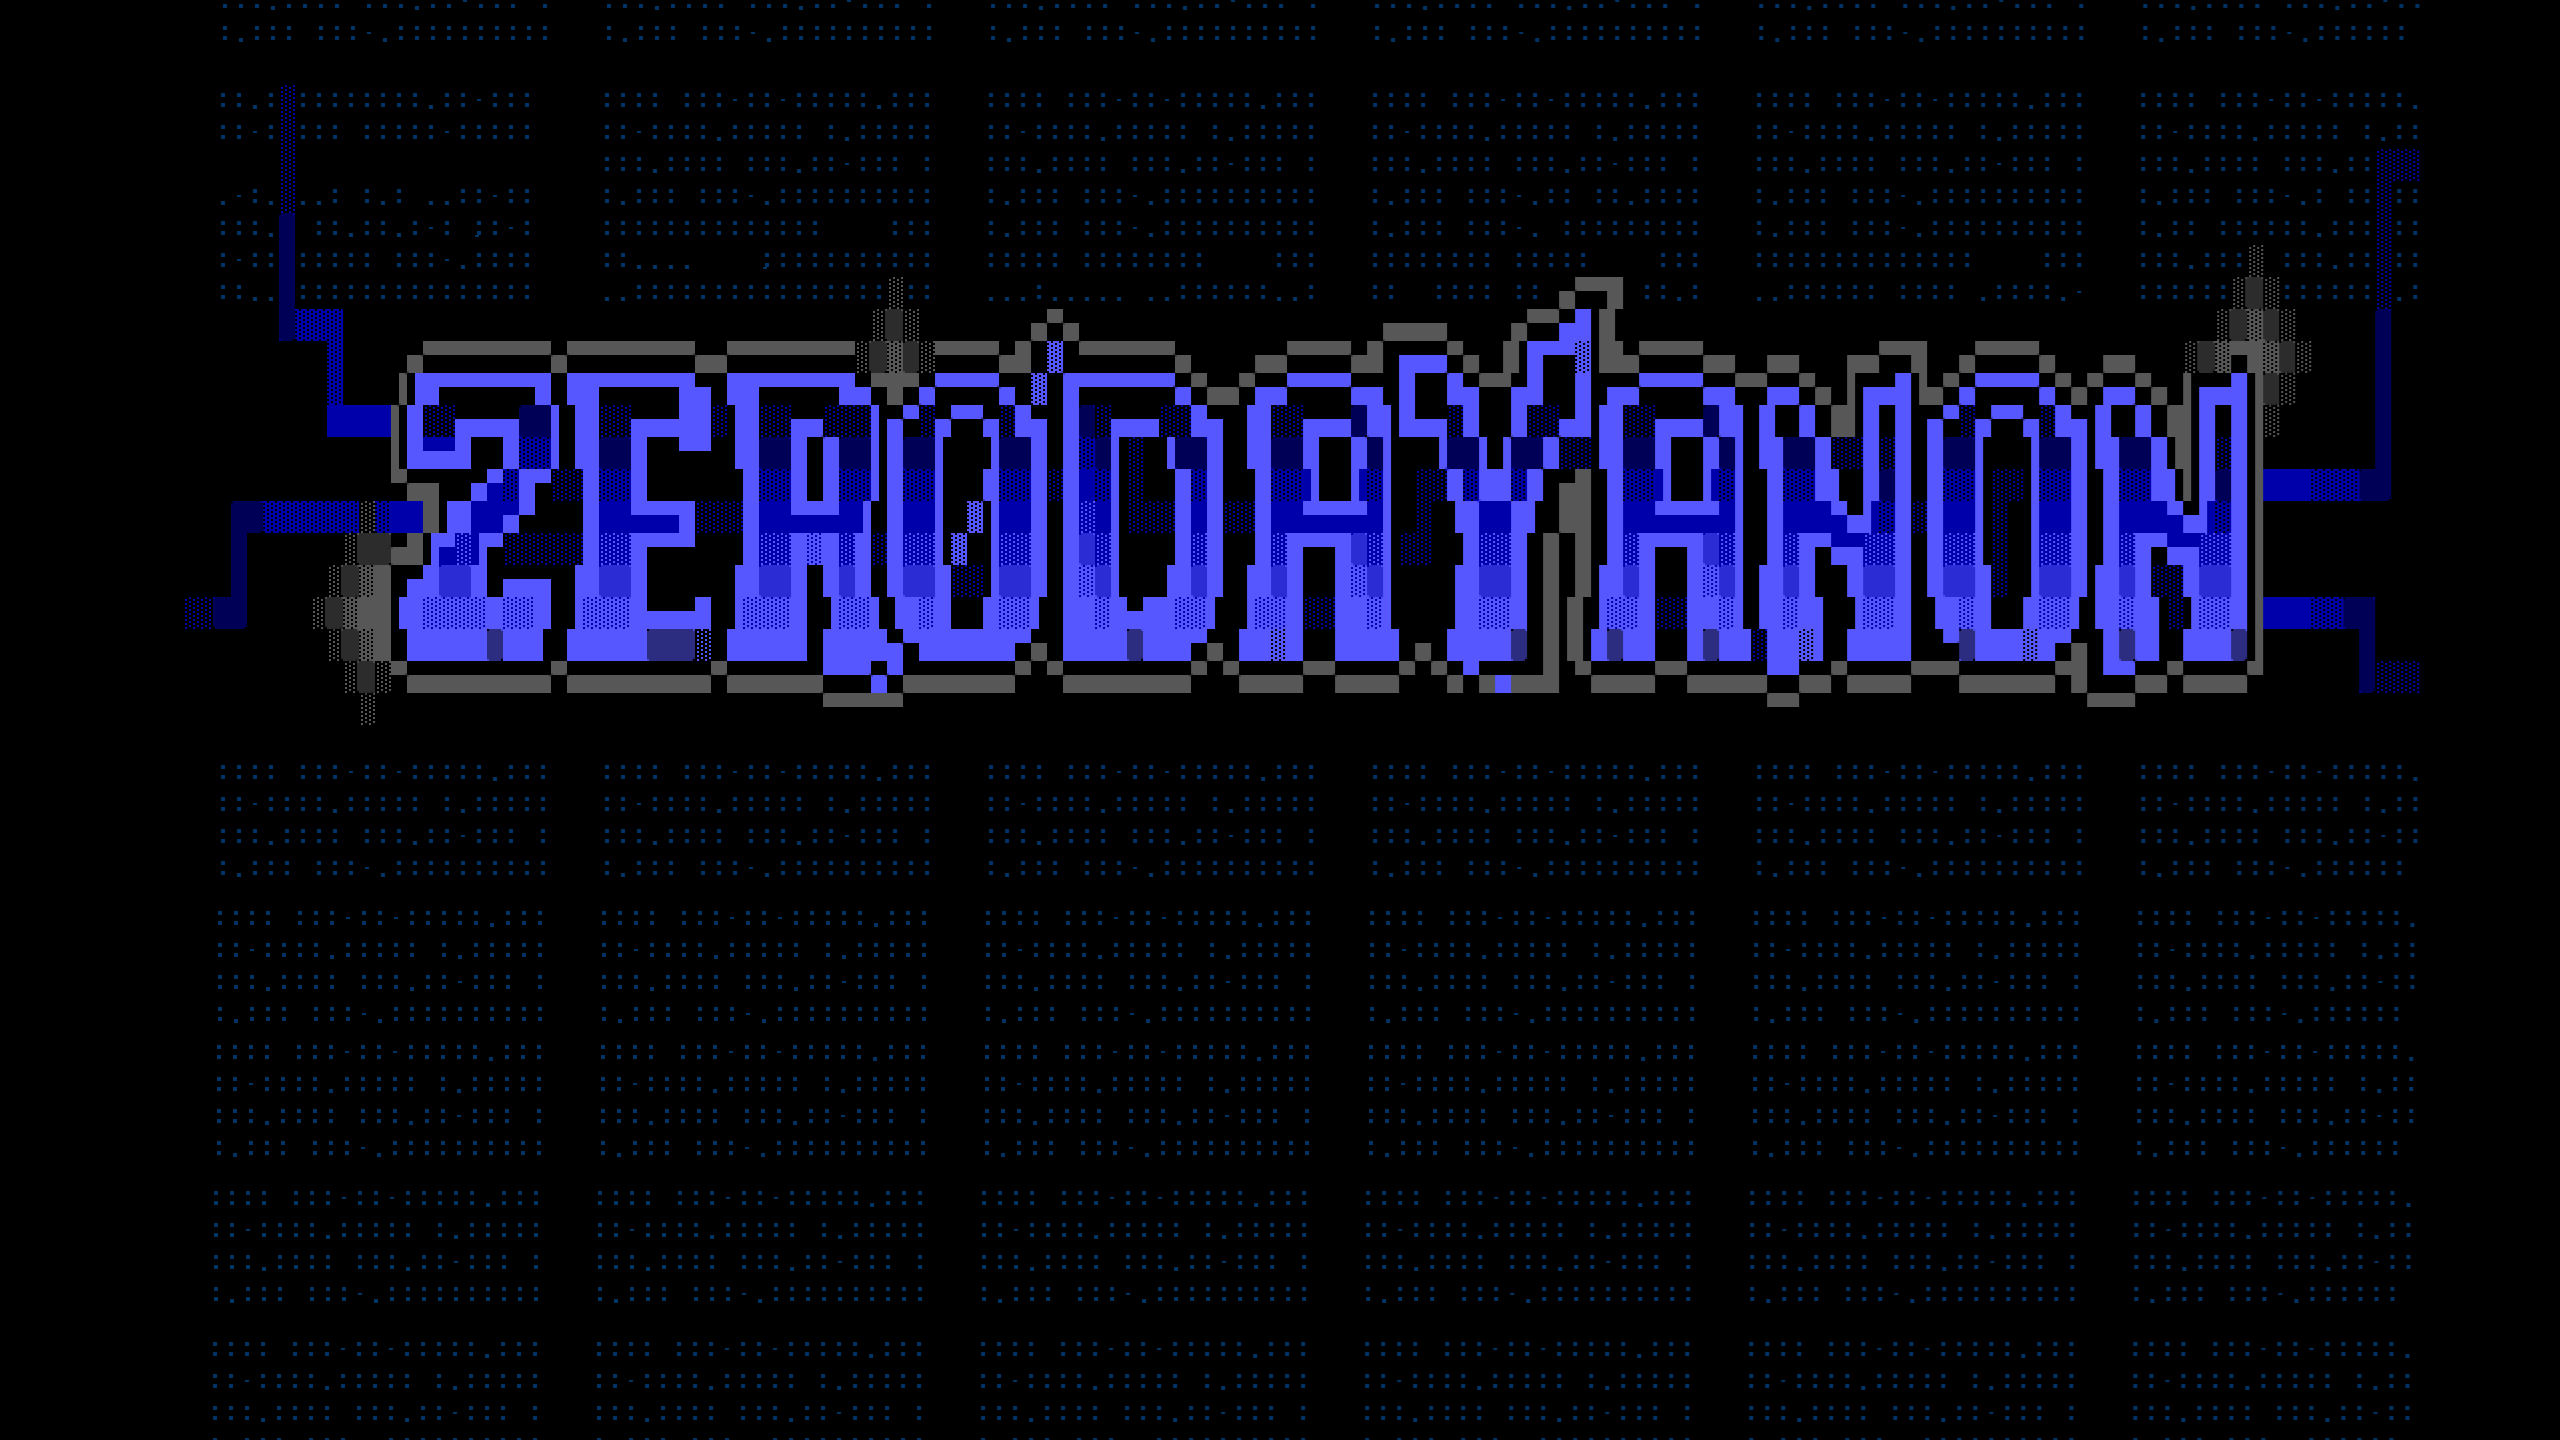
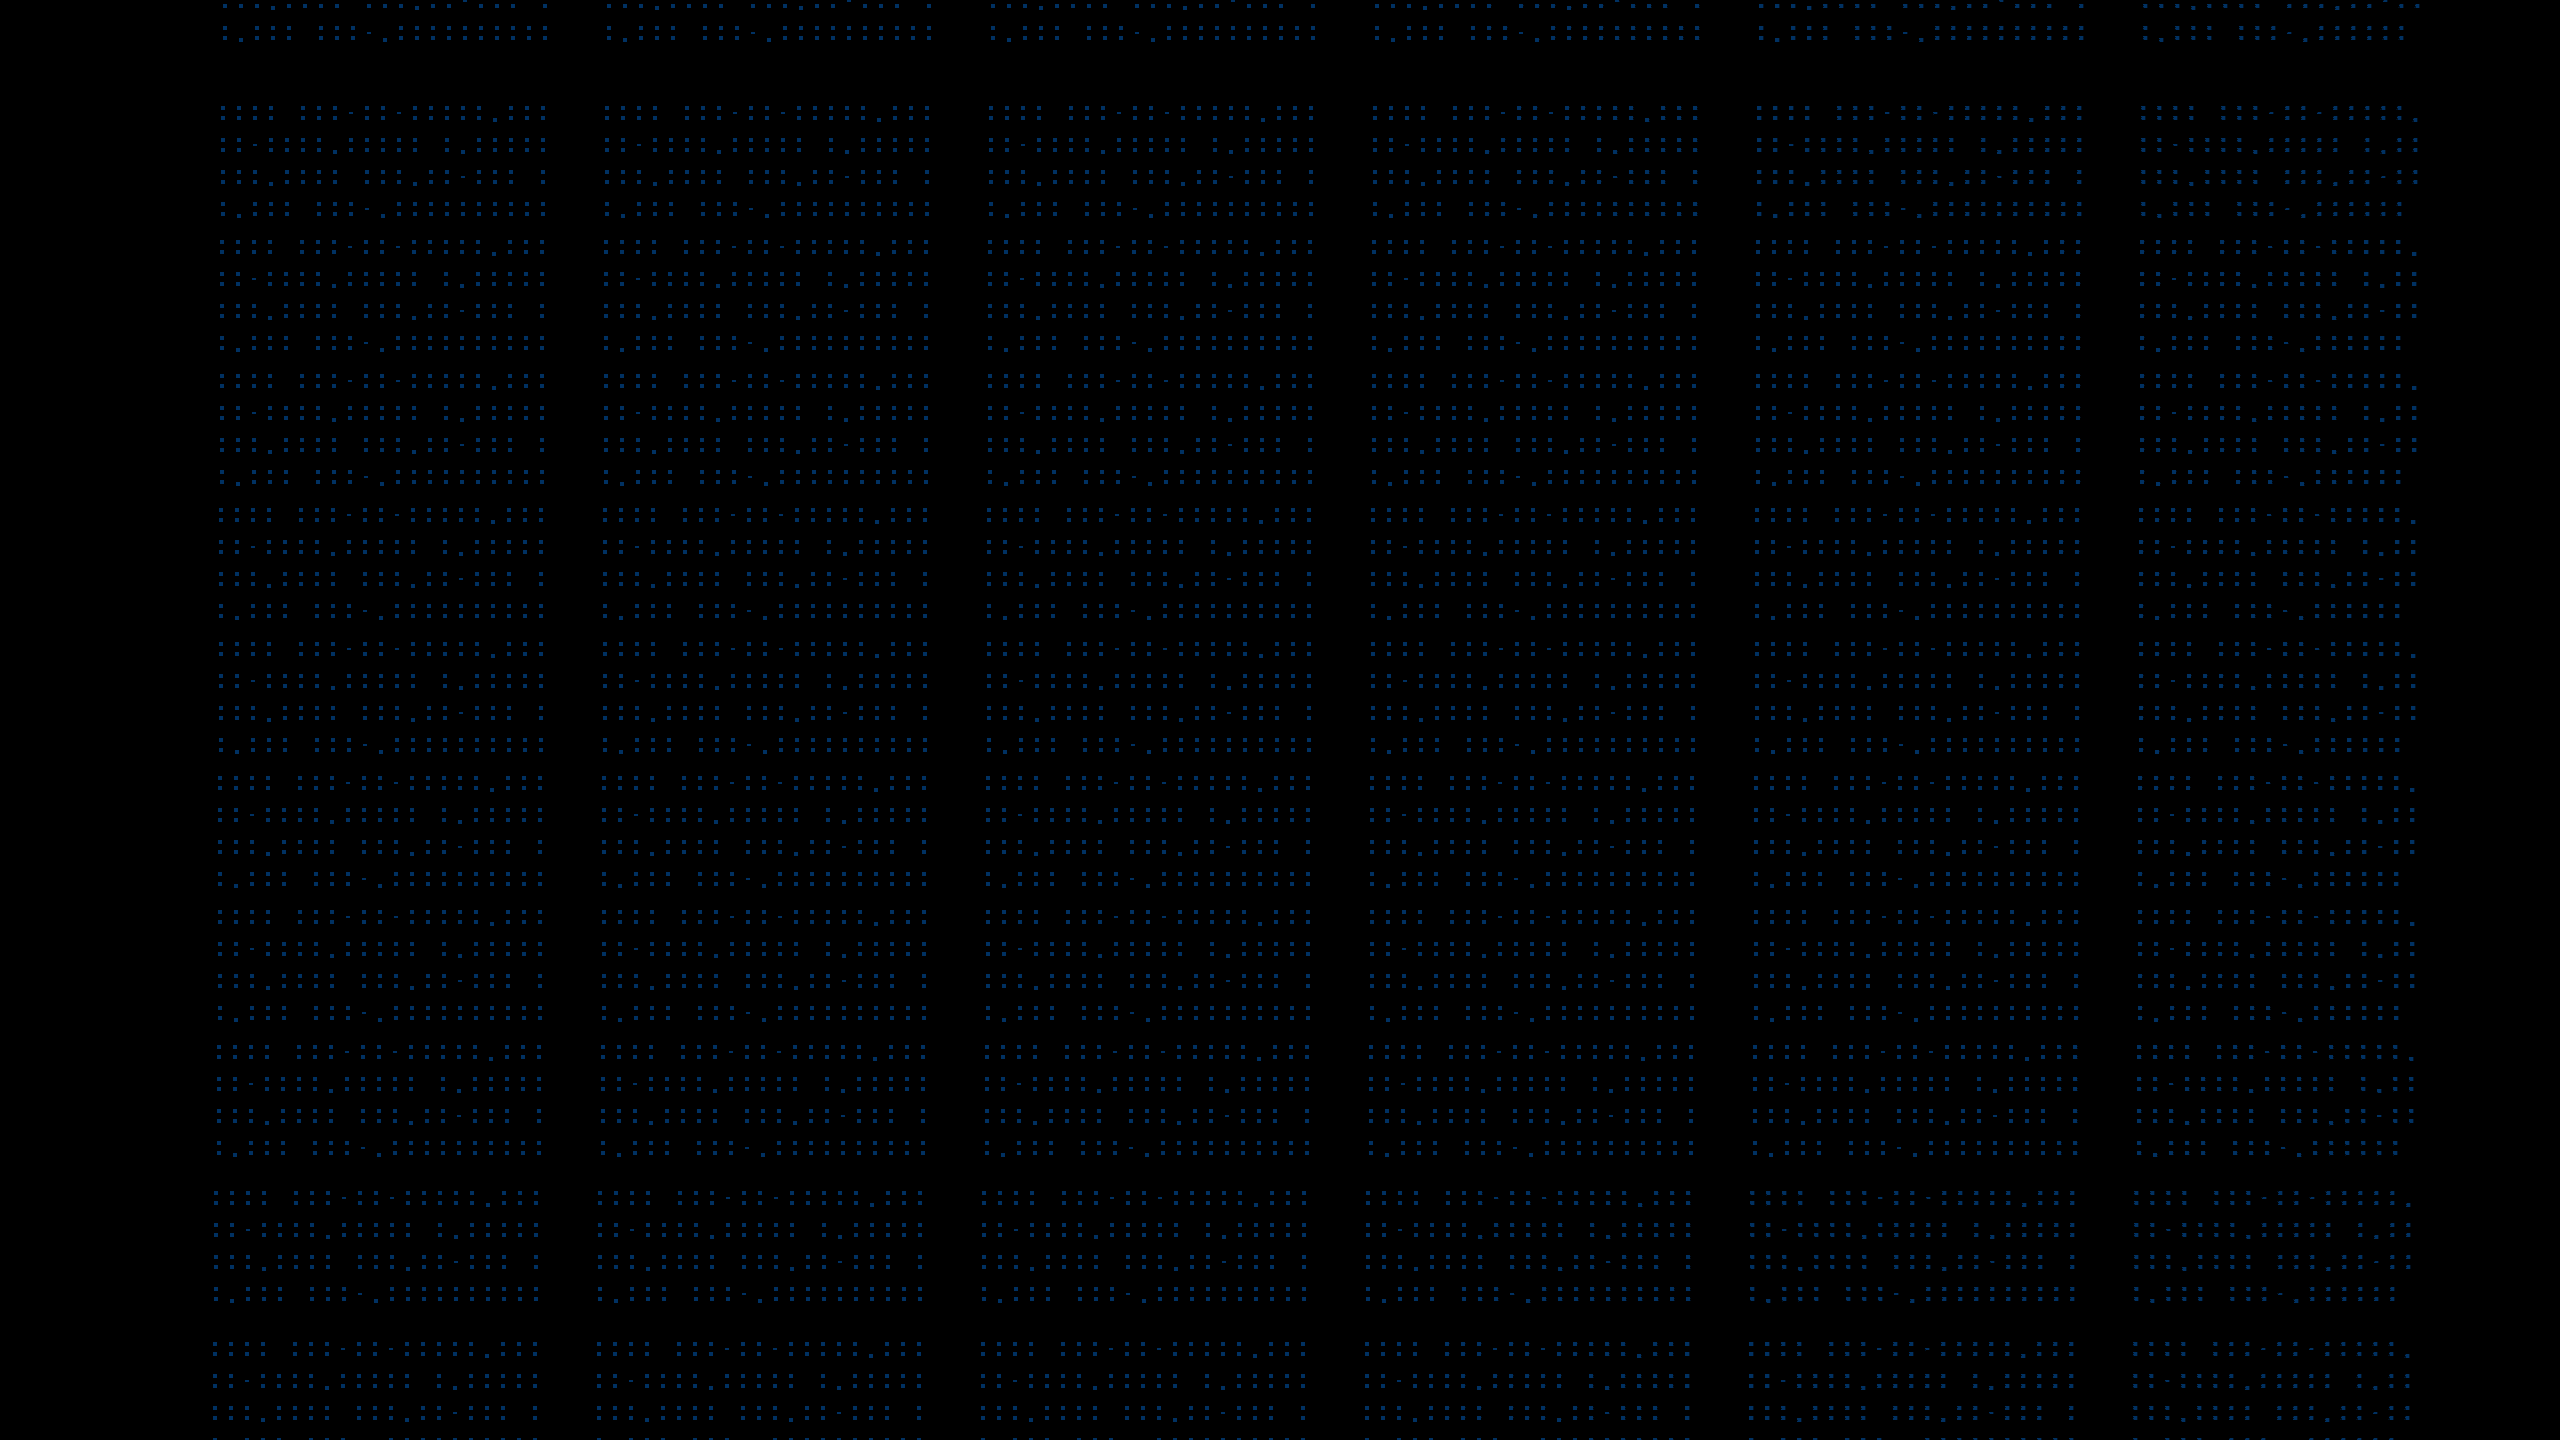
make homepage background better on smaller screens

diff --git a/assets/css/style.css b/assets/css/style.css
@@ -1131,3 +1131,24 @@
 		  height: 130%; 
 		}
 	}
+
+	#logo-container {
+		position: relative;
+		z-index: 2;
+		text-align: center;
+		margin-top: 80px;
+	}
+
+	#logo-image {
+		width: 100%; /* width for smaller screens */
+		max-width: 100%;
+		height: auto;
+		display: block;
+		margin: 0 auto;
+	}
+
+	@media (min-width: 1280px) {
+		#logo-image {
+			width: calc(100% - 500px); /* spacing for larger screens */
+		}
+	}

diff --git a/index.html b/index.html
@@ -22,6 +22,9 @@
 	</head>
   <body>
     <div id="initial-screen">
+      <div id="logo-container">
+        <img id="logo-image" src="/assets/img/zerodayanon.png" alt="Zerodayanon" />
+      </div>
       <img id="background-image" src="/assets/img/click.png" alt="Click to Enter" />
       <div id="button-container">
         <div id="enter-button" onclick="handleTransition('/portfolio.html')">Portfolio</div>
